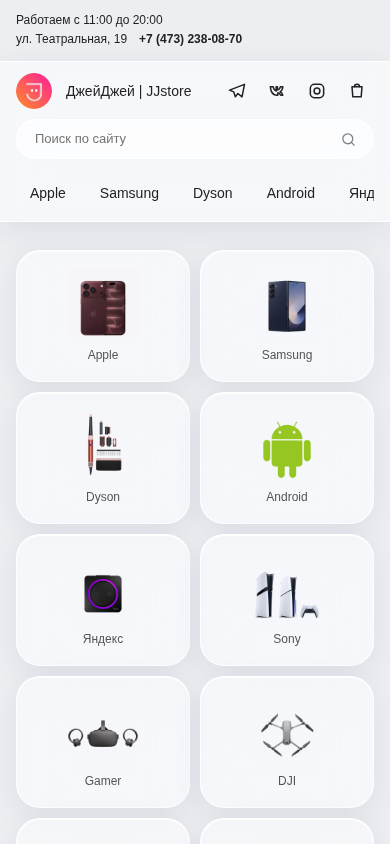
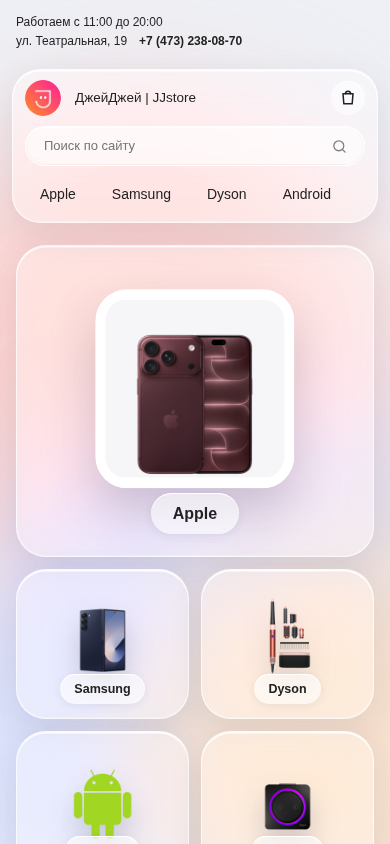
Liquid glass pass: floating header, bento category tiles, specular hover light
Claude-Session: https://claude.ai/code/session_0163ZjdM2uxMpsZRiagcJtBK

diff --git a/assets/style.css b/assets/style.css
@@ -146,3 +146,81 @@ svg{width:1em;height:1em;fill:none;stroke:currentColor;stroke-width:1.8;stroke-l
 /* product photos have white backgrounds: keep cards near-opaque so they blend */
 .card{background:rgba(255,255,255,.94)}
 .track{padding-bottom:30px;margin-bottom:-20px}
+
+/* =====================================================================
+   v3 — iOS "liquid glass" over a calm pastel field (flat colors only)
+   ===================================================================== */
+:root{--bg:#eef0f5;--glass:rgba(255,255,255,.42);--stroke:rgba(255,255,255,.7);--r:30px}
+body{background:var(--bg)}
+.orbs{position:fixed;inset:0;z-index:-1;overflow:hidden;pointer-events:none}
+.orbs i{position:absolute;border-radius:50%;filter:blur(70px)}
+.o1{width:520px;height:520px;left:-120px;top:120px;background:#ffc9c4;opacity:.8}
+.o2{width:600px;height:600px;right:-160px;top:420px;background:#cfd9ff;opacity:.85}
+.o3{width:480px;height:480px;left:30%;bottom:-160px;background:#ffe1c2;opacity:.8}
+
+.glass,.glass-bar{
+  background:var(--glass);
+  backdrop-filter:blur(26px) saturate(190%);-webkit-backdrop-filter:blur(26px) saturate(190%);
+  border:1px solid var(--stroke);
+  box-shadow:inset 0 1.5px 0 rgba(255,255,255,.95),inset 0 -1px 0 rgba(255,255,255,.25),0 10px 34px rgba(40,50,90,.10);
+}
+/* cursor-following specular light */
+.glass{position:relative;overflow:hidden}
+.glass::before{content:"";position:absolute;inset:0;pointer-events:none;border-radius:inherit;opacity:0;transition:opacity .3s;
+  background:radial-gradient(220px circle at var(--mx,50%) var(--my,50%),rgba(255,255,255,.75),transparent 65%)}
+.glass:hover::before{opacity:1}
+.glass>*{position:relative}
+
+/* floating header pill */
+.head{position:sticky;top:12px;z-index:30;width:min(1180px,100% - 24px);margin:0 auto;border:0;background:none;box-shadow:none;backdrop-filter:none;-webkit-backdrop-filter:none}
+.head .bar{border-radius:34px;padding:8px 14px 8px 18px}
+.head-row{padding:2px 0 6px;gap:24px}
+.search{background:rgba(255,255,255,.55);box-shadow:inset 0 1px 0 #fff,inset 0 0 0 1px rgba(0,0,0,.04);max-width:480px}
+.brands{padding:4px 0 2px;justify-content:space-between}
+.brands a{border-radius:99px;padding:8px 15px}
+.brands a:hover{background:rgba(255,255,255,.8);color:var(--text)}
+.icons a,.icons button{background:rgba(255,255,255,.5);box-shadow:inset 0 1px 0 #fff}
+.topbar{padding:14px 0 18px}
+
+/* category wall → bento of glass tiles */
+.wall{grid-template-columns:repeat(5,1fr);grid-auto-rows:176px;gap:18px;margin-top:22px}
+.tile{height:auto;border-radius:var(--r);padding:0;justify-content:flex-end;align-items:stretch;gap:0;color:var(--text);isolation:isolate;
+  transition:transform .5s cubic-bezier(.22,1,.36,1),box-shadow .5s}
+.tile img{position:absolute;left:50%;top:44%;height:auto;width:auto;max-height:58%;max-width:62%;transform:translate(-50%,-50%);object-fit:contain;
+  filter:drop-shadow(0 14px 14px rgba(30,40,80,.22));transition:transform .6s cubic-bezier(.22,1,.36,1)}
+.tile span{position:relative;align-self:center;margin-bottom:14px;padding:6px 14px;border-radius:99px;font-size:12.5px;font-weight:600;
+  background:rgba(255,255,255,.6);box-shadow:inset 0 1px 0 #fff,0 2px 8px rgba(40,50,90,.08);transition:.3s}
+.tile:hover{transform:translateY(-6px) scale(1.015);box-shadow:inset 0 1.5px 0 #fff,0 26px 50px rgba(40,50,90,.18)}
+.tile:hover img{transform:translate(-50%,-54%) scale(1.1) rotate(-2deg)}
+.tile:hover span{background:var(--accent);color:#fff}
+.tile.feat{grid-column:span 2;grid-row:span 2}
+.tile.feat img{max-height:70%;max-width:56%;top:46%}
+.tile.feat span{font-size:16px;padding:9px 22px;margin-bottom:22px}
+.tile.wide{grid-column:span 2}
+.tile.wide img{max-height:60%}
+
+.quick a{border-radius:99px;padding:15px}
+.sec-title{font-size:30px;font-weight:700;letter-spacing:-.02em;margin:64px 0 0}
+.products{margin-top:20px}
+.card{background:rgba(255,255,255,.72);border-radius:var(--r);padding:16px 16px 20px}
+.card .img{height:190px;border-radius:22px;background:#fff;margin-bottom:16px}
+.card h4{font-weight:500;font-size:13.5px}
+.price{font-size:18px;font-weight:700}
+.buy{padding:10px 24px;font-size:13px}
+.foot{background:rgba(255,255,255,.45);backdrop-filter:blur(24px);-webkit-backdrop-filter:blur(24px);border-top:1px solid #fff}
+
+@media(max-width:980px){.wall{grid-template-columns:repeat(4,1fr);grid-auto-rows:150px;gap:14px}.tile.feat{grid-column:span 2}}
+@media(max-width:760px){
+  .head{top:8px}.head .bar{border-radius:28px;padding:8px 12px}
+  .wall{grid-template-columns:repeat(2,1fr);grid-auto-rows:150px;gap:12px}
+  .tile.feat{grid-column:span 2;grid-row:span 2}.tile.wide{grid-column:span 2}
+  .sec-title{font-size:24px;margin-top:44px}
+}
+.drawer{position:fixed}
+.tile{isolation:auto}
+.tile img{mix-blend-mode:multiply}
+.glass>img{position:absolute}
+.tile img{filter:brightness(1.07) contrast(1.02) drop-shadow(0 14px 14px rgba(30,40,80,.2))}
+.tile.feat img{background:#fff;border-radius:32px;padding:10px;max-height:66%;mix-blend-mode:normal;
+  filter:none;box-shadow:inset 0 0 0 1px rgba(255,255,255,.9),0 24px 50px rgba(60,40,60,.22)}
+@media(max-width:560px){.icons a{display:none}.head-row{flex-wrap:wrap;gap:10px}.logo span{font-size:13.5px}}

diff --git a/index.html b/index.html
@@ -12,6 +12,7 @@
 <link rel="stylesheet" href="assets/style.css">
 </head>
 <body>
+<div class="orbs" aria-hidden="true"><i class="o1"></i><i class="o2"></i><i class="o3"></i></div>
 
 <div class="topbar wrap">
   <span>Работаем с 11:00 до 20:00</span>
@@ -21,8 +22,9 @@
   </span>
 </div>
 
-<header class="head glass-bar" id="head">
-  <div class="wrap head-row">
+<header class="head" id="head">
+  <div class="bar glass">
+  <div class="head-row">
     <a href="#" class="logo"><img src="assets/brand/logo.png" alt="JJstore"><span>ДжейДжей | JJstore</span></a>
     <div class="search glass">
       <input id="search" type="search" placeholder="Поиск по сайту" autocomplete="off">
@@ -36,7 +38,7 @@
       <button id="openCart" aria-label="Корзина"><svg viewBox="0 0 24 24"><path d="M6 7h12l-1 12H7L6 7Z"/><path d="M9 7a3 3 0 0 1 6 0"/></svg><i class="badge" id="cartCount">0</i></button>
     </div>
   </div>
-  <nav class="wrap brands" aria-label="Бренды">
+  <nav class="brands" aria-label="Бренды">
       <a href="https://jjstore.ru/apple" target="_blank" rel="noopener">Apple</a>
       <a href="https://jjstore.ru/samsung" target="_blank" rel="noopener">Samsung</a>
       <a href="https://jjstore.ru/dyson" target="_blank" rel="noopener">Dyson</a>
@@ -49,12 +51,13 @@
       <a href="https://jjstore.ru/native-union" target="_blank" rel="noopener">Native Union</a>
       <a href="https://jjstore.ru/aksessuary-3" target="_blank" rel="noopener">Аксессуары</a>
   </nav>
+  </div>
 </header>
 
 <main class="wrap">
 
   <section class="wall" aria-label="Каталог">
-    <a class="tile glass" href="https://jjstore.ru/apple" target="_blank" rel="noopener"><img src="assets/cat/apple.png" alt="Apple" loading="lazy"><span>Apple</span></a>
+    <a class="tile glass feat" href="https://jjstore.ru/apple" target="_blank" rel="noopener"><img src="assets/cat/apple.png" alt="Apple" loading="lazy"><span>Apple</span></a>
     <a class="tile glass" href="https://jjstore.ru/samsung" target="_blank" rel="noopener"><img src="assets/cat/samsung.png" alt="Samsung" loading="lazy"><span>Samsung</span></a>
     <a class="tile glass" href="https://jjstore.ru/dyson" target="_blank" rel="noopener"><img src="assets/cat/dyson.png" alt="Dyson" loading="lazy"><span>Dyson</span></a>
     <a class="tile glass" href="https://jjstore.ru/android" target="_blank" rel="noopener"><img src="assets/cat/android.png" alt="Android" loading="lazy"><span>Android</span></a>
@@ -74,7 +77,7 @@
     <a class="tile glass" href="https://jjstore.ru/whoop" target="_blank" rel="noopener"><img src="assets/cat/whoop.png" alt="Whoop" loading="lazy"><span>Whoop</span></a>
     <a class="tile glass" href="https://jjstore.ru/ray-ban" target="_blank" rel="noopener"><img src="assets/cat/ray-ban.png" alt="Ray-Ban" loading="lazy"><span>Ray-Ban</span></a>
     <a class="tile glass" href="https://jjstore.ru/google-fit-pro" target="_blank" rel="noopener"><img src="assets/cat/google-fit-pro.png" alt="Google Fit Pro" loading="lazy"><span>Google Fit Pro</span></a>
-    <a class="tile glass" href="https://jjstore.ru/uslugi" target="_blank" rel="noopener"><img src="assets/cat/uslugi.png" alt="Услуги" loading="lazy"><span>Услуги</span></a>
+    <a class="tile glass wide" href="https://jjstore.ru/uslugi" target="_blank" rel="noopener"><img src="assets/cat/uslugi.png" alt="Услуги" loading="lazy"><span>Услуги</span></a>
   </section>
 
   <section class="quick">
@@ -84,6 +87,7 @@
     <a class="glass" href="https://jjstore.ru/delivery" target="_blank" rel="noopener">Оплата</a>
   </section>
 
+  <h2 class="sec-title">Популярное</h2>
   <section class="products">
     <button class="arrow prev" id="prev" aria-label="Назад"><svg viewBox="0 0 24 24"><path d="m15 6-6 6 6 6"/></svg></button>
     <div class="track" id="track"></div>

diff --git a/assets/script.js b/assets/script.js
@@ -78,5 +78,14 @@
   });
   document.addEventListener('click', e => { if (!e.target.closest('.search')) res.classList.remove('on'); });
 
+  /* specular light follows the cursor on glass surfaces */
+  if (matchMedia('(hover:hover) and (pointer:fine)').matches) {
+    document.addEventListener('pointermove', e => {
+      const g = e.target.closest && e.target.closest('.glass'); if (!g) return;
+      const r = g.getBoundingClientRect();
+      g.style.setProperty('--mx', (e.clientX - r.left) + 'px'); g.style.setProperty('--my', (e.clientY - r.top) + 'px');
+    }, { passive: true });
+  }
+
   renderCart();
 })();
